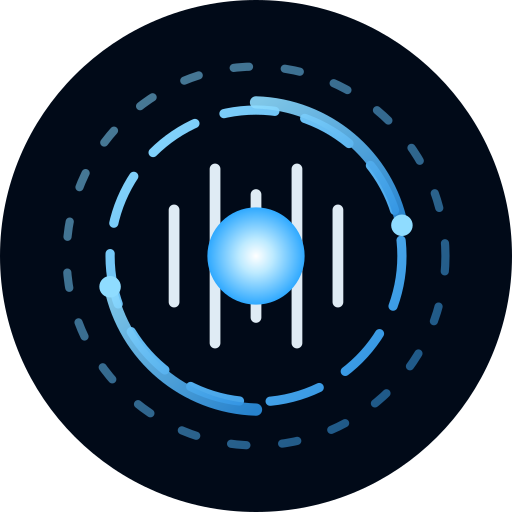
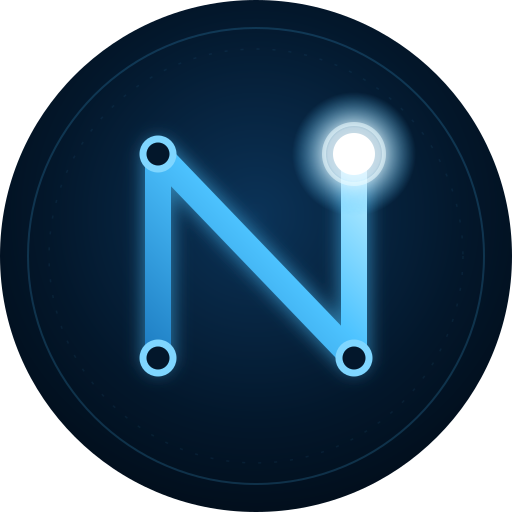
master: NEXUSのロゴを新意匠に更新し、リンク先を正規ドメインへ
アイコンが2026-08-05制作の旧ロゴ(軌道リング意匠)のままで、
リンク先もVercelのプレビューURLだった。ロゴはNEXUS本体が
使っている現行のNマークに差し替え、リンク先は取得済みの
正規ドメイン https://nexus.core-ai.jp へ変更。

diff --git a/public/master.html b/public/master.html
@@ -136,7 +136,7 @@
     "lnk-lume":  "https://lume-deploy-five.vercel.app/app.html?" + M,
     "lnk-guild": "https://guild-hazel.vercel.app/?" + M,
     "lnk-crystal": "https://crystal-nine-self.vercel.app/app?" + M,
-    "lnk-nexus": "https://core-nexus-kappa.vercel.app/?" + M,
+    "lnk-nexus": "https://nexus.core-ai.jp/?" + M,
     "lnk-universe": "https://core-universe.vercel.app/?" + M
   };
   function reveal(){
